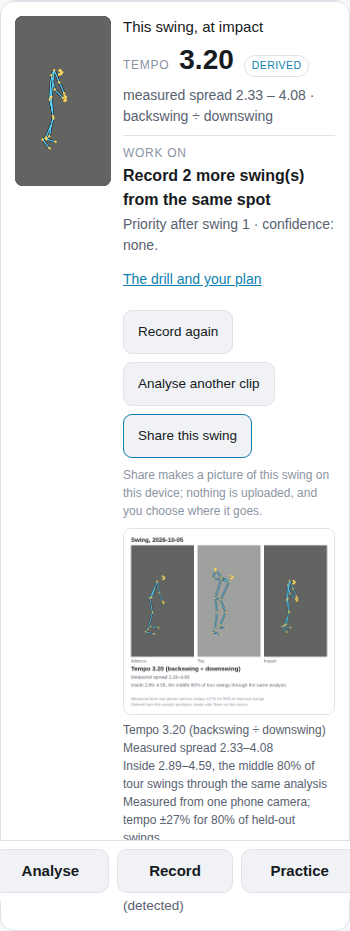
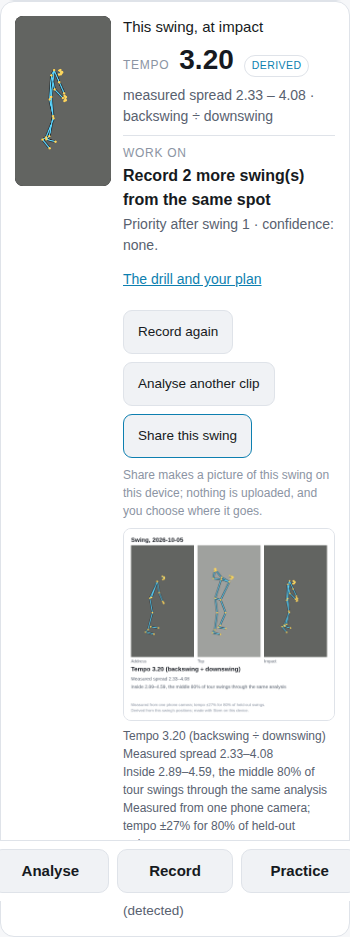
Share card: wrap lines instead of clipping, local date, no ±% for left-handers
The shared swing card cut each line to one line ending in "…", so the
slow-motion caveat at the end of the meaning line was the first thing
dropped from the image that leaves the device. Lines now wrap at spaces
and the card grows to fit. The card is dated with the device's own day
(progress.js localDay, as #69 did for the charts), and a left-hander's
footer no longer quotes the ±% coverage measured on right-handed swings.
The slow-motion caveat is worded as the page words it: "May be slow
motion" when the clip reads either way, with the factor.

A page test analyses a 2x slowed clip at 03:00 UTC in Los Angeles,
records every string drawn on the card, and checks that "slow motion" is
there, nothing ends in an ellipsis or passes the 840 px text width, the
date is the local one, and the ±% appears for right-handers only. It
failed before the fix on both hands.

Refs #71

Claude-Session: https://claude.ai/code/session_013JLEpkrMqUzfwj7PkPzTdW

diff --git a/swingml/webapp/app.js b/swingml/webapp/app.js
@@ -18,7 +18,7 @@ import { PracticeLog, cameraSignature, clipKey, formatG3, storedMetrics } from "
 import { SwingWatcher, cameraConstraints, extensionFor, frameRateNote, framingVerdict, levelVerdict,
   recordingType } from "./capture.js";
 import { cardText, stemRead, voiceCue } from "./read.js";
-import { MIN_SWINGS, progressSeries, progressSvg } from "./progress.js";
+import { MIN_SWINGS, localDay, progressSeries, progressSvg } from "./progress.js";
 
 const MEDIAPIPE = "https://cdn.jsdelivr.net/npm/@mediapipe/tasks-vision@0.10.14";
 // Pinned to the version the analysis was measured with (#51; model.js).
@@ -3150,7 +3150,7 @@ function swingCardLines() {
     metrics: m, handedness: a.handedness,
     band: state.payload.calibration && state.payload.calibration.tempo,
     rules: state.payload.practice || null, userSet: [...a.userSet], insight: state.readInsight,
-    date: new Date().toISOString().slice(0, 10),
+    date: localDay(new Date()),
   });
 }
 
@@ -3159,45 +3159,79 @@ function drawSwingCard(lines) {
   const shots = [0, 3, 5].map((e) => state.frames && state.frames[e]).filter(Boolean);
   const scale = (c) => frame / c.canvas.width;
   const shotHeight = Math.max(...shots.map((c) => Math.round(c.canvas.height * scale(c))), 0);
-  const text = [lines.tempo, lines.spread, lines.meaning, lines.priority].filter(Boolean);
-  const height = pad + 40 + shotHeight + 30 + text.length * 34 + 84 + pad;
   const canvas = document.createElement("canvas");
+  const g = canvas.getContext("2d");
+  const font = (weight, size) => `${weight} ${size}px -apple-system, Segoe UI, Roboto, sans-serif`;
+  // Every line is wrapped to the card's width and the card grows to fit, so a
+  // caveat at the end of a line is never the part cut off (#71).
+  const blocks = [];
+  for (const [i, line] of [lines.tempo, lines.spread, lines.meaning, lines.priority].filter(Boolean)
+    .entries()) {
+    const style = i === 0 ? { font: font(700, 26), color: "#161a21", lead: 34 }
+      : { font: font(400, 20), color: "#58616f", lead: 28 };
+    g.font = style.font;
+    blocks.push({ ...style, rows: wrapLines(g, line, width - 2 * pad), after: 6 });
+  }
+  g.font = font(400, 17);
+  const foot = [lines.limitation, "Derived from this swing's positions; made with Stem on this device."]
+    .flatMap((line) => wrapLines(g, line, width - 2 * pad));
+  const textHeight = blocks.reduce((sum, b) => sum + b.rows.length * b.lead + b.after, 0);
+  const height = pad + 40 + shotHeight + 30 + 30 + textHeight + 24 + foot.length * 24 + pad;
   canvas.width = width;
   canvas.height = height;
-  const g = canvas.getContext("2d");
   g.fillStyle = "#ffffff";
   g.fillRect(0, 0, width, height);
   g.fillStyle = "#161a21";
-  g.font = "600 26px -apple-system, Segoe UI, Roboto, sans-serif";
+  g.font = font(600, 26);
   g.fillText(`Swing, ${lines.date}`, pad, pad + 26);
   shots.forEach((c, i) => {
     const x = pad + i * (frame + gap), y = pad + 40;
     g.drawImage(c.canvas, x, y, frame, Math.round(c.canvas.height * scale(c)));
-    g.font = "500 18px -apple-system, Segoe UI, Roboto, sans-serif";
+    g.font = font(500, 18);
     g.fillStyle = "#58616f";
     g.fillText(c.label, x, y + shotHeight + 24);
   });
   let y = pad + 40 + shotHeight + 30 + 30;
-  for (const [i, line] of text.entries()) {
-    g.fillStyle = i === 0 ? "#161a21" : "#58616f";
-    g.font = i === 0 ? "700 26px -apple-system, Segoe UI, Roboto, sans-serif"
-      : "400 20px -apple-system, Segoe UI, Roboto, sans-serif";
-    wrapText(g, line, pad, y, width - 2 * pad);
-    y += 34;
+  for (const block of blocks) {
+    g.fillStyle = block.color;
+    g.font = block.font;
+    for (const row of block.rows) {
+      g.fillText(row, pad, y);
+      y += block.lead;
+    }
+    y += block.after;
   }
   g.fillStyle = "#8b94a3";
-  g.font = "400 17px -apple-system, Segoe UI, Roboto, sans-serif";
-  wrapText(g, lines.limitation, pad, height - pad - 30, width - 2 * pad);
-  wrapText(g, "Derived from this swing's positions; made with Stem on this device.",
-           pad, height - pad - 6, width - 2 * pad);
+  g.font = font(400, 17);
+  y = height - pad - 6 - (foot.length - 1) * 24;
+  for (const row of foot) {
+    g.fillText(row, pad, y);
+    y += 24;
+  }
   return canvas;
 }
 
-function wrapText(g, text, x, y, maxWidth) {
-  // One line, shortened with an ellipsis rather than spilling off the card.
-  let line = text;
-  while (line.length > 4 && g.measureText(line).width > maxWidth) line = `${line.slice(0, -2)}…`;
-  g.fillText(line, x, y);
+/* `text` broken at spaces into rows no wider than `maxWidth` in `g`'s font. A
+ * single word wider than that (none of the card's are) is shortened with an
+ * ellipsis rather than spilling off the card. */
+function wrapLines(g, text, maxWidth) {
+  const rows = [];
+  let row = "";
+  for (const word of String(text).split(/\s+/).filter(Boolean)) {
+    const next = row ? `${row} ${word}` : word;
+    if (row && g.measureText(next).width > maxWidth) {
+      rows.push(row);
+      row = word;
+    } else {
+      row = next;
+    }
+  }
+  if (row) rows.push(row);
+  return rows.map((r) => {
+    let fit = r;
+    while (fit.length > 4 && g.measureText(fit).width > maxWidth) fit = `${fit.slice(0, -2)}…`;
+    return fit;
+  });
 }
 
 async function shareSwing() {

diff --git a/swingml/webapp/read.js b/swingml/webapp/read.js
@@ -226,8 +226,11 @@ export function cardText(input) {
       const spread = Math.abs(m.tempoRatio) * band.half_width_fraction;
       lines.spread = `Measured spread ${(m.tempoRatio - spread).toFixed(2)}–` +
         `${(m.tempoRatio + spread).toFixed(2)}` + (left ? " (not measured for left-handers)" : "");
-      lines.limitation = `Measured from one phone camera; tempo ±${Math.round(100 * band.half_width_fraction)}% ` +
-        `for ${Math.round(100 * band.coverage)}% of held-out swings.`;
+      // The coverage was measured on right-handed swings only (#71).
+      if (!left) {
+        lines.limitation = `Measured from one phone camera; tempo ±${Math.round(100 * band.half_width_fraction)}% ` +
+          `for ${Math.round(100 * band.coverage)}% of held-out swings.`;
+      }
     }
     const tour = rules && rules.tour_tempo;
     if (tour) {
@@ -237,7 +240,13 @@ export function cardText(input) {
       lines.meaning = `${where[0].toUpperCase()}${where.slice(1)} ${range(tour, 2)}, ` +
         "the middle 80% of tour swings through the same analysis";
     }
-    if (m.slowedBy) lines.meaning = `${lines.meaning ? `${lines.meaning}. ` : ""}Read as slow motion`;
+    // Worded as the page words it: a clip that only reads as a swing slowed down
+    // was read as slow motion; one that reads either way only may be (#71).
+    if (m.slowedBy) {
+      const slowed = m.slowedRetimed === false ? "May be slow motion" : "Read as slow motion";
+      lines.meaning = `${lines.meaning ? `${lines.meaning}. ` : ""}${slowed}, ` +
+        `played about ${m.slowedBy.toFixed(0)} times slower`;
+    }
   } else {
     lines.tempo = "No tempo reading for this swing";
   }

diff --git a/swingml/webapp/progress.js b/swingml/webapp/progress.js
@@ -35,7 +35,7 @@ const TEMPO_EVENTS = [0, 3, 5];
 
 /* The golfer's own calendar day for a stored UTC time (#69): an evening session
  * west of UTC, or a morning one east of it, crosses UTC midnight but is one day. */
-function localDay(at) {
+export function localDay(at) {
   const when = at ? new Date(at) : null;
   if (!when || Number.isNaN(when.getTime())) return (at || "").slice(0, 10);
   const two = (n) => String(n).padStart(2, "0");

diff --git a/swingml/tests/test_page.py b/swingml/tests/test_page.py
@@ -163,6 +163,21 @@ def clip(sequence: PoseSequence, tmp_path_factory: pytest.TempPathFactory) -> Pa
 
 
 @pytest.fixture(scope="module")
+def slowed_clip(sequence: PoseSequence, tmp_path_factory: pytest.TempPathFactory) -> Path:
+    """`clip`'s frames played twice as slowly: a slow-motion export. Cut short of
+    the page's long-clip scan (12 s), whose sampling the stub does not replay."""
+    path = tmp_path_factory.mktemp("page") / "slowed.webm"
+    height, width = 426, 240
+    rate = 1.0 / float(np.median(np.diff(sequence.timestamps_s))) / 2
+    writer = cv2.VideoWriter(str(path), cv2.VideoWriter.fourcc(*"VP80"), rate, (width, height))
+    assert writer.isOpened(), "could not open a VP8 writer"
+    for index in range(min(sequence.n_frames, int(11.5 * rate))):
+        writer.write(np.full((height, width, 3), (index % 11) * 20, np.uint8))
+    writer.release()
+    return path
+
+
+@pytest.fixture(scope="module")
 def landmark_json(sequence: PoseSequence) -> str:
     return landmarks_of(sequence)
 
@@ -1156,5 +1171,68 @@ def test_a_shared_swing_card_is_made_on_the_device_from_the_pages_numbers(
         if SCREENS:
             (SCREENS / "swing-card.png").write_bytes(data)
             page.locator("#summary-card").screenshot(path=str(SCREENS / f"share-{width}.png"))
+        assert errors == []
+        browser.close()
+
+
+# Every string the page draws on a canvas, with its width at the font it was drawn in.
+DRAWN = """
+window.__drawn = [];
+const fill = CanvasRenderingContext2D.prototype.fillText;
+CanvasRenderingContext2D.prototype.fillText = function (text, x, y, ...rest) {
+  window.__drawn.push({ text: String(text), x, width: this.measureText(text).width,
+                        canvas: this.canvas.width });
+  return fill.call(this, text, x, y, ...rest);
+};
+"""
+
+
+@pytest.mark.parametrize("hand", ["right", "left"])
+def test_a_slowed_swings_card_keeps_every_word_and_the_golfers_own_date(
+    landmark_json: str, slowed_clip: Path, hand: str
+) -> None:
+    """#71: long lines were clipped to one line, dropping "slow motion" from the
+    image that leaves the device; the date was UTC's; a left-hander's footer
+    quoted a coverage measured on right-handers only."""
+    with sync_playwright() as playwright:
+        browser = playwright.chromium.launch(executable_path=CHROMIUM)
+        # 03:00 UTC is still the evening before in Los Angeles.
+        context = browser.new_context(
+            viewport={"width": 390, "height": 900},
+            accept_downloads=True,
+            timezone_id="America/Los_Angeles",
+        )
+        page = context.new_page()
+        page.clock.set_fixed_time("2026-10-05T03:00:00Z")
+        errors: list[str] = []
+        page.on("pageerror", lambda error: errors.append(str(error)))
+        page.route(
+            "**/vision_bundle.mjs",
+            lambda route: route.fulfill(status=200, content_type="text/javascript", body=STUB),
+        )
+        page.add_init_script(f"window.__LANDMARKS__ = {landmark_json};")
+        page.add_init_script(DRAWN)
+        page.goto(PAGE.resolve().as_uri())
+        page.click(f"#handedness [data-value={hand}]")
+        _analyse(page, slowed_clip)
+        assert page.locator("#results").is_visible(), page.text_content("#refusal-reason")
+        assert "slow motion" in (page.text_content("#summary-card") or "")
+        page.evaluate("() => { window.__drawn = []; }")
+        with page.expect_download() as download:
+            page.click("#share-swing")
+        data = Path(download.value.path()).read_bytes()
+        drawn = [d for d in page.evaluate("() => window.__drawn") if d["canvas"] == 900]
+        text = " ".join(d["text"] for d in drawn)
+        assert "slow motion, played about 2 times slower" in text, text
+        assert not any(d["text"].endswith("…") for d in drawn), drawn
+        assert all(d["x"] + d["width"] <= 900 - 30 for d in drawn), drawn
+        assert "Swing, 2026-10-04" in text
+        assert Path(download.value.suggested_filename).name == "swing-2026-10-04.png"
+        assert ("±" in text) == (hand == "right"), text
+        if SCREENS:
+            (SCREENS / f"swing-card-slowed-{hand}.png").write_bytes(data)
+            page.locator("#summary-card").screenshot(
+                path=str(SCREENS / f"share-slowed-{hand}-390.png")
+            )
         assert errors == []
         browser.close()

diff --git a/swingml/tests/test_browser_read.py b/swingml/tests/test_browser_read.py
@@ -348,9 +348,19 @@ def test_the_card_judges_no_more_than_stems_read() -> None:
     assert hand_placed["meaning"].startswith("Tour swings read")
     left = card({**METRICS, "tempoRatio": 2.0}, hand="left")
     assert "not measured for left-handers" in left["spread"]
+    # Nor is the coverage behind the footer's ±% (#71).
+    assert left["limitation"] == "Measured from one phone camera."
     assert left["meaning"].startswith("Tour swings read")
     assert card({**METRICS, "tempoRatio": 2.0})["meaning"].startswith("A quick backswing")
     assert card({**METRICS, "tempoRatio": None})["tempo"] == "No tempo reading for this swing"
+
+
+def test_the_card_words_slow_motion_as_the_page_does() -> None:
+    read = card({**METRICS, "slowedBy": 4, "slowedRetimed": True})["meaning"]
+    assert read.endswith(". Read as slow motion, played about 4 times slower")
+    maybe = card({**METRICS, "slowedBy": 2, "slowedRetimed": False})["meaning"]
+    assert maybe.endswith(". May be slow motion, played about 2 times slower")
+    assert "slow motion" not in card()["meaning"]
 
 
 def test_the_card_carries_the_practice_priority() -> None:

diff --git a/docs/product/known-limitations.md b/docs/product/known-limitations.md
@@ -124,7 +124,10 @@ fixed, it moves to the changelog with the measurement that shows it.
     tempo with its spread, where it sits against tour swings, the practice priority,
     and what one phone camera cannot promise. It goes to the device's share sheet,
     or is downloaded where the browser cannot share files. A photo-heavy card over
-    1 MB is saved as JPEG. The desktop app and the iPhone app have no share card yet.
+    1 MB is saved as JPEG. Long lines wrap and the card grows to fit, so a caveat
+    (slow motion, left-handed) is never cut off (#71). The card is dated with the
+    device's own day. A left-hander's card quotes no ±% coverage, which was measured
+    on right-handed swings only. The desktop app and the iPhone app have no share card yet.
 14. **The browser keeps its practice log in the browser.** Clearing site data, a
     private window, or another browser starts from nothing, and nothing moves between
     the desktop, the browser and the iPhone. The iPhone's practice screen builds in CI
